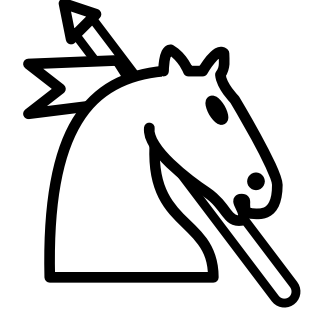
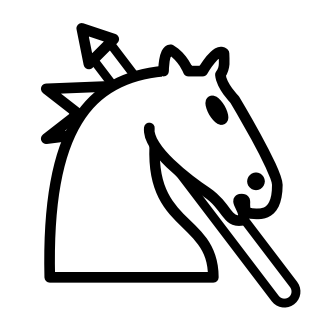
Shorter Cavalry lance; art options round 13 (Ram on the knight body, skulls, hoods, chariots)

Changed region(s): [[0.0625, 0.0, 0.4375, 0.4688], [0.625, 0.625, 0.75, 0.75], [0.5625, 0.5625, 0.5938, 0.5938]]

diff --git a/art/source/piece_options/round13/make_round13.py b/art/source/piece_options/round13/make_round13.py
@@ -1,0 +1,107 @@
+"""Round 13 art options (white versions only, for choosing).
+
+Built on the real Cburnett shapes (from Wikimedia Commons, Category:SVG chess
+pieces): the knight's body for the Ram, the bishop's base where a piece needs one.
+Run from this folder:  python make_round13.py
+"""
+import io, math
+
+HEAD = '<svg xmlns="http://www.w3.org/2000/svg" width="45" height="45" viewBox="0 0 45 45"><g stroke="#000" stroke-width="1.5" stroke-linecap="round" stroke-linejoin="round" fill="#fff">'
+TAIL = "</g></svg>\n"
+
+def thick(d, outer=6.5, inner=3.5):
+    return ('<path d="%s" fill="none" stroke="#000" stroke-width="%s"/>' % (d, outer) +
+            '<path d="%s" fill="none" stroke="#fff" stroke-width="%s"/>' % (d, inner))
+
+OPTIONS = {}
+
+# Cburnett pieces --------------------------------------------------------------------
+KNIGHT_BODY = '<path d="M 22,10 C 32.5,11 38.5,18 38,39 L 15,39 C 15,30 25,32.5 23,18"/>'
+BISHOP_BASE = ('<path d="M 9,36 C 12.39,35.03 19.11,36.43 22.5,34 C 25.89,36.43 32.61,35.03 36,36 C 36,36 37.65,36.54 39,38 '
+               'C 38.32,38.97 37.35,38.99 36,38.5 C 32.61,37.53 25.89,38.96 22.5,37.5 C 19.11,38.96 12.39,37.53 9,38.5 '
+               'C 7.65,38.99 6.68,38.97 6,38 C 7.35,36.54 9,36 9,36 Z"/>')
+
+# --- Ram: the knight's body with a ram's head ---------------------------------------
+# The head keeps the knight's jaw line but swaps the horse's ears and long face for a
+# rounder, Roman-nosed ram's face; a curled horn sits on the side of the head.
+RAM_HEAD = ('<path d="M 24,18 C 24.38,20.91 18.45,25.37 16,27 C 13,29 13.18,31.34 11,31 C 9,31 6,30 6,27 '
+            'C 6,23 8,18.5 11,15 C 13.5,12 17,9.5 22,10"/>'
+            '<circle cx="8.8" cy="26.3" r="0.6" fill="#000"/>')
+RAM_EYE = '<ellipse cx="13.2" cy="18.2" rx="1.3" ry="0.9" transform="rotate(-30 13.2 18.2)" fill="#000" stroke="none"/>'
+HORN_A = thick("M 15.5,11 C 20,5 30,6.5 30.5,14.5 C 31,21 23.5,23 22,18.5 C 21,15 25,13.5 26.5,16", 7.5, 4.5)
+HORN_B = thick("M 15,11.5 C 19,6.5 27,7 28,13.5 C 28.8,18.5 23.5,20.5 22,17 C 21.3,15 23.5,13.8 24.8,15.3", 7, 4)
+HORN_C = thick("M 15,11 C 20,3.5 33,5 33,15 C 33,23.5 23.5,25.5 21.8,19.5 C 20.8,15.5 25,13.5 27,16.5", 7.5, 4.5)
+OPTIONS["ram_knight_a"] = KNIGHT_BODY + RAM_HEAD + RAM_EYE + HORN_A
+OPTIONS["ram_knight_b"] = KNIGHT_BODY + RAM_HEAD + RAM_EYE + HORN_B
+OPTIONS["ram_knight_c"] = KNIGHT_BODY + RAM_HEAD + RAM_EYE + HORN_C
+
+# --- Necromancer: a stylised skull (no hood) ------------------------------------------
+def skull(top=5.5, jaw=True):
+    s = ('<path d="M 11,%.1f C 11,%.1f 16,%.1f 22.5,%.1f C 29,%.1f 34,%.1f 34,%.1f C 34,%.1f 31.5,%.1f 30,%.1f L 30,%.1f L 15,%.1f L 15,%.1f C 13.5,%.1f 11,%.1f 11,%.1f Z"/>'
+         % (top + 14, top + 5, top, top, top, top + 5, top + 14, top + 19, top + 21.5, top + 22.5, top + 28, top + 28, top + 22.5, top + 21.5, top + 19, top + 14))
+    s += ('<path d="M 14.3,%.1f C 14.3,%.1f 21,%.1f 21,%.1f C 21,%.1f 14.3,%.1f 14.3,%.1f Z" fill="#000"/>' % (top + 14.5, top + 11.5, top + 11.5, top + 15, top + 18, top + 18, top + 14.5)
+          + '<path d="M 24,%.1f C 24,%.1f 30.7,%.1f 30.7,%.1f C 30.7,%.1f 24,%.1f 24,%.1f Z" fill="#000"/>' % (top + 15, top + 11.5, top + 11.5, top + 14.5, top + 18, top + 18, top + 15)
+          + '<path d="M 22.5,%.1f L 20.8,%.1f L 24.2,%.1f Z" fill="#000" stroke-width="0.8"/>' % (top + 18, top + 22, top + 22))
+    if jaw:
+        s += '<path d="M 18.5,%.1f L 18.5,%.1f M 22.5,%.1f L 22.5,%.1f M 26.5,%.1f L 26.5,%.1f" fill="none" stroke-width="1.2"/>' % (top + 24.5, top + 28, top + 24.5, top + 28, top + 24.5, top + 28)
+    return s
+OPTIONS["necromancer_skull_cracked"] = (skull(7) +
+    '<path d="M 25,7.5 L 23.5,11 L 26,13.5 L 24.5,16" fill="none" stroke-width="1.2"/>')
+# An angular skull: narrow chin, sharp cheekbones, long teeth.
+OPTIONS["necromancer_skull_angular"] = (
+    '<path d="M 10.5,19 C 10.5,10 16,5 22.5,5 C 29,5 34.5,10 34.5,19 C 34.5,23 33,25.5 31,27 L 29,34 C 27.5,38 25,40 22.5,40 C 20,40 17.5,38 16,34 L 14,27 C 12,25.5 10.5,23 10.5,19 Z"/>'
+    + '<path d="M 13.5,19.5 L 20.5,18 L 20,24 C 17,24 14.5,22.5 13.5,19.5 Z M 31.5,19.5 L 24.5,18 L 25,24 C 28,24 30.5,22.5 31.5,19.5 Z" fill="#000"/>'
+    + '<path d="M 22.5,24 L 20.8,28.5 L 24.2,28.5 Z" fill="#000" stroke-width="0.8"/>'
+    + '<path d="M 17.5,31.5 C 20.5,33 24.5,33 27.5,31.5 M 20,31.8 L 20.3,35.5 M 22.5,32.3 L 22.5,36.5 M 25,31.8 L 24.7,35.5" fill="none" stroke-width="1.1"/>'
+)
+
+# --- Rogue: just a hood (no face, no body); the opening is in shadow ------------------
+OPTIONS["rogue_hood_round"] = (
+    '<path d="M 22.5,4 C 15,5 9.5,12 9,22 C 8.6,30 9.5,36 8,40.5 C 13,39 17,40 22.5,40 C 28,40 32,39 37,40.5 C 35.5,36 36.4,30 36,22 C 35.5,12 30,5 22.5,4 Z"/>'
+    + '<path d="M 22.5,11 C 17,12 14.5,17.5 14.5,24 C 14.5,30.5 17.5,36 22.5,37.5 C 27.5,36 30.5,30.5 30.5,24 C 30.5,17.5 28,12 22.5,11 Z" fill="#000"/>'
+)
+OPTIONS["rogue_hood_peaked"] = (
+    '<path d="M 22.5,2.5 C 26,6 33,10 35,19 C 36.5,26 35.5,33 38,40.5 C 33,39.5 28,40.5 22.5,40.5 C 17,40.5 12,39.5 7,40.5 C 9.5,33 8.5,26 10,19 C 12,10 19,6 22.5,2.5 Z"/>'
+    + '<path d="M 22.5,11 C 17,12.5 14.5,18 14.5,24.5 C 14.5,31 17.5,36.5 22.5,38 C 27.5,36.5 30.5,31 30.5,24.5 C 30.5,18 28,12.5 22.5,11 Z" fill="#000"/>'
+    + '<path d="M 22.5,8 C 15.5,9.5 12,16 12,24 C 12,30.5 14,36 17,39.5 M 22.5,8 C 29.5,9.5 33,16 33,24 C 33,30.5 31,36 28,39.5" fill="none" stroke-width="1"/>'
+)
+OPTIONS["rogue_hood_tip_back"] = (
+    '<path d="M 21,5 C 25,2 31,2 34,5.5 C 31.5,5 29.5,5.5 28.5,7 C 33,10.5 35.5,16 36,23 C 36.5,30 35.5,35 37.5,40.5 C 32,39.5 27.5,40.5 22.5,40.5 C 17.5,40.5 13,39.5 7.5,40.5 C 9.5,35 8.5,30 9,23 C 9.5,14 14,7.5 21,5 Z"/>'
+    + '<path d="M 22.5,11.5 C 17,12.5 14.5,18 14.5,24.5 C 14.5,31 17.5,36.5 22.5,38 C 27.5,36.5 30.5,31 30.5,24.5 C 30.5,18 28,12.5 22.5,11.5 Z" fill="#000"/>'
+)
+
+# --- Chariot: side view, after Mac's three references --------------------------------
+def wheel(cx, cy, r, spokes, rim=2.6):
+    out = '<circle cx="%s" cy="%s" r="%s" fill="#fff"/>' % (cx, cy, r)
+    out += '<circle cx="%s" cy="%s" r="%s" fill="none"/>' % (cx, cy, r - rim)
+    lines = []
+    for i in range(spokes):
+        a = math.pi * 2 * i / spokes + math.pi / spokes
+        lines.append("M %.2f,%.2f L %.2f,%.2f" % (cx + 2 * math.cos(a), cy + 2 * math.sin(a), cx + (r - rim) * math.cos(a), cy + (r - rim) * math.sin(a)))
+    out += '<path d="%s" fill="none" stroke-width="1.6"/>' % " ".join(lines)
+    out += '<circle cx="%s" cy="%s" r="2"/>' % (cx, cy)
+    return out
+# Reference 1: boxy body, the back rising in a step to a tall front with a fancy edge.
+OPTIONS["chariot_ref1"] = (
+    '<path d="M 4.5,33 L 4.5,26 C 4.5,23 6.5,21 9.5,21 L 17.5,21 L 23.5,13.5 C 24.5,12.2 26,11.5 27.5,11.5 L 34.5,11.5 L 34.5,33 Z"/>'
+    + '<path d="M 31.5,14.5 L 29.5,17 L 30.5,18.5 L 28.5,20.5 L 30.5,22.5 L 29.5,24 L 31.5,26.5" fill="none" stroke-width="1.3"/>'
+    + '<path d="M 34.5,28.5 L 41.5,28.5 L 41.5,33 L 34.5,33 Z"/>'
+    + wheel(15, 33, 9, 6)
+)
+# Reference 2: rounded body with a raised rim, a shorter rise to the front.
+OPTIONS["chariot_ref2"] = (
+    '<path d="M 9,32 L 9,21.5 C 9,19 10.5,17.5 13,17.5 L 21.5,17.5 C 24.5,17.5 25.5,16 25.5,13 C 25.5,10.5 27,9 29.5,9 L 34.5,9 L 34.5,32 Z"/>'
+    + '<path d="M 12,32 L 12,22.5 C 12,21.3 12.8,20.5 14,20.5 L 22,20.5 C 26.5,20.5 28.5,18 28.5,14.5 C 28.5,12.8 29.3,12 31,12 L 31.5,12 L 31.5,32" fill="none" stroke-width="1.2"/>'
+    + '<path d="M 34.5,30 L 42,30" fill="none" stroke-width="2.8"/>'
+    + wheel(15, 32, 9.5, 8)
+)
+# Reference 3: a front sweeping up in one curve, a long low pole.
+OPTIONS["chariot_ref3"] = (
+    '<path d="M 4,31 L 7,22.5 C 15,21 22.5,16.5 27.5,10.5 L 30.5,10.5 L 30.5,31 Z"/>'
+    + '<path d="M 30.5,31 L 36,31 L 36,29 L 43,29" fill="none" stroke-width="2.6"/>'
+    + wheel(15, 31.5, 10, 12, 2.4)
+)
+
+for name, body in OPTIONS.items():
+    io.open("white_%s.svg" % name, "w", encoding="utf-8", newline="").write(HEAD + body + TAIL)
+print(len(OPTIONS), "options written")

diff --git a/art/source/piece_options/make_final_archer_cavalry.py b/art/source/piece_options/make_final_archer_cavalry.py
@@ -32,9 +32,10 @@ black_archer = (line(BOW, 6.5, "#000") + line("M 9.5,14.5 C 22,3 41,22 30.5,35",
                 + '<path d="%s" fill="#000"/>' % HEAD_TIP + '<path d="%s" fill="#000"/>' % FLETCH)
 
 # --- Cavalry: horse facing right (the knight mirrored), lance behind with a pennant ----
-LANCE = "M 40,41 L 12,4"
-LANCE_TIP = "M 13.5,2 L 9,0.5 L 10,5.5 Z"
-PENNANT = "M 16.5,8.5 L 4,9 L 8.5,12.5 L 4,16 L 20,14 Z"
+# Shortened so the tip stays clear of the top of the square (Mac).
+LANCE = "M 40,41 L 14.5,7.5"
+LANCE_TIP = "M 16,5.5 L 11.5,4 L 12.5,9 Z"
+PENNANT = "M 19,12 L 6.5,12.5 L 11,16 L 6.5,19.5 L 22.5,17.5 Z"
 NECK = "M 22,10 C 32.5,11 38.5,18 38,39 L 15,39 C 15,30 25,32.5 23,18"
 HEAD_PATH = ("M 24,18 C 24.38,20.91 18.45,25.37 16,27 C 13,29 13.18,31.34 11,31 C 9.958,30.06 12.41,27.96 11,28 "
              "C 10,28 11.19,29.23 10,30 C 9,30 5.997,31 6,26 C 6,24 12,14 12,14 C 12,14 13.89,12.1 14,10.5 "
@@ -53,10 +54,10 @@ black_horse = ('<path d="%s" fill="#000"/>' % NECK + '<path d="%s" fill="#000"/>
 
 white_cavalry = (line(LANCE, 4.5, "#000") + line(LANCE, 2, "#fff")
                  + '<path d="%s"/>' % LANCE_TIP + '<path d="%s"/>' % PENNANT + mirror(white_horse))
-black_cavalry = (line(LANCE, 4.5, "#000") + line("M 37.5,37.7 L 14,6.6", 0.9, "#fff")
+black_cavalry = (line(LANCE, 4.5, "#000") + line("M 37.5,37.7 L 16.5,10", 0.9, "#fff")
                  + '<path d="%s" fill="#000"/>' % LANCE_TIP
                  + '<path d="%s" fill="#000"/>' % PENNANT
-                 + line("M 15.5,11 L 9,11.2", 0.9, "#fff")
+                 + line("M 18,14.5 L 11.5,14.7", 0.9, "#fff")
                  + mirror(black_horse))
 
 for name, body in {"white_archer": white_archer, "black_archer": black_archer,

diff --git a/CLAUDE.md b/CLAUDE.md
@@ -35,6 +35,7 @@ Everything in the rules engine should be built so standard chess is just one con
 * Piece art: the "Cburnett" set from Wikimedia Commons (Mac supplied the sprite sheet). It is licensed (CC BY-SA 3.0 / GPL / BSD / GFDL), so a published game must credit it (e.g. "Chess pieces by Cburnett, CC BY-SA 3.0") — remind Mac before any release. Style folder: `res://art/pieces/standard/`. New piece types will need matching art (ask Mac).
 * Board orientation: White always at the bottom, nothing drawn upside down (no flipping).
 * First custom piece: the **Elephant** (`res://data/pieces/elephant.tres`, symbol E): jumps exactly 2 squares diagonally (can't be blocked, stays on one colour), captures the same way. Value 1.5 (`PieceDef.value` is a float). Art: option F in `res://art/source/elephant_options/` — option D (side view facing left, dome head, hanging trunk, curved ivory tusk, notched ear sticking out behind) with the head shrunk to 85% and the base removed: the neck flares to a wide flat bottom like the knight's. `make_option_f.py` there regenerates it (head scale and anchor are arguments). A–E kept as earlier attempts.
+* Reference for the real Cburnett SVG shapes (Mac): https://commons.wikimedia.org/wiki/Category:SVG_chess_pieces (e.g. Special:FilePath/Chess_nlt45.svg). Build new pieces on those shapes (knight body, bishop base, ...); black versions = black fill + thin white detail lines, as Chess_ndt45.
 * Custom piece art is drawn by Claude as SVG in the Cburnett style (45x45 canvas, 1.5 black outline, white or black fill, white detail lines on black pieces), saved in `res://art/source/pieces/<team>_<id>.svg`, rendered to PNG with `tools/render_piece_svg.gd`. Offer Mac a few options per piece.
 * Armies (Mac's rules, set in `GameRules`): budget 39 points (pawns count too); pieces start only on the owner's first two rows; plus the tag limits above.
 * Army builder (Mac's design): starts with an empty board; players name and save armies (max 10 saved); armies are edited outside games; before a match each player picks one of their saved armies.
@@ -115,7 +116,7 @@ Steps 1–4 DONE: army data and rules, army builder screen, saving up to 10 armi
 * Necromancer (NC, 3, king steps, can't capture (MOVE_ONLY), Special Ability "Raise Dead"): once per game it leaves the board and one of your lost pieces (not pawn types, not Necromancers) returns on its square as if the game had just started (shield back, ability unused; has_moved = true so it can't castle). Picture: [necromancer] [lightning] [raised piece].
 * Engine: abilities are ordinary moves (`Move.ability`, `raised`, `raised_from_lost`; `Move.to_text()` "a1!c3" / "d2!=Q"; text SAN "Axc3!" / "NC!=Q"); `Piece.ability_used` (FEN mark ^ after the piece); `GameState.lost[team]` (captured pieces and dead Rams; attack tables include lost types so raised pieces are covered); `MoveGenerator.raisable_defs`. A side with an unused Raise Dead and something to raise is never an insufficient-material draw; pieces that can't capture are ignored when only they and kings remain.
 * UI (Mac's design): selecting a piece with an unused ability shows a button named after it (lightning icon) beside the board (`game.ability_button`). Crack Shot: the button switches the board to aiming (`BoardView.aim_ability()`, gold rings on targets); a normal tap on a target is still a normal capture. Raise Dead: the button opens the picker (shared with promotion) showing the lost pieces.
-* Art (second batch): Archer = round 11 archer_white_arrow (bow arcing to the top-right, arrow pointing at the top-right corner, from Mac's reference); Cavalry = round 11 cavalry_lance_behind (the knight mirrored to face right, lance rising behind to the top-left with a pennant). Final SVGs made by `art/source/piece_options/make_final_archer_cavalry.py` into `art/source/pieces/`. Waiting on Mac: Berserker (round 12 bent horns, a or b) and Wizard (round 12 crystal ball on a wider base, square or rounded); still to design: Rogue, Necromancer, Ram (round 11 ram_knight_* direction), Chariot (round 11 side views).
+* Art (second batch): Archer = round 11 archer_white_arrow (bow arcing to the top-right, arrow pointing at the top-right corner, from Mac's reference); Cavalry = round 11 cavalry_lance_behind (the knight mirrored to face right, lance rising behind to the top-left with a pennant), lance shortened so its tip clears the top of the square. Final SVGs made by `art/source/piece_options/make_final_archer_cavalry.py` into `art/source/pieces/`. Waiting on Mac: Berserker (round 12 bent horns, a or b) and Wizard (round 12 crystal ball on a wider base, square or rounded); still to design: Rogue, Necromancer, Ram (round 11 ram_knight_* direction), Chariot (round 11 side views).
 * Mac: "any piece that can jump uses the Jump keyword" (explanation text broadened); all pawn types show the Promote keyword on their card; special abilities are written with * for now (clashes with the shield-break * — Mac to design notation for every non-normal move).
 * Piece card: "Special Rule" (`PieceDef.special_rule`, text in the .tres; the cannon's moved there) and "Special Ability" (`PieceDef.ability_name` / `ability_text`) sections. Pieces without art show their letters (`board_view_test.ART_TO_COME` lists them).
 * Attack detection: `MoveGenerator.attack_table` returns [lines, unusual]; leaping/path rules (`MoveRule.is_unusual()`) are checked from each such piece (`_rule_reaches`). `movement_pieces_test.test_attack_detection_matches_captures` cross-checks attacks against generated captures.
